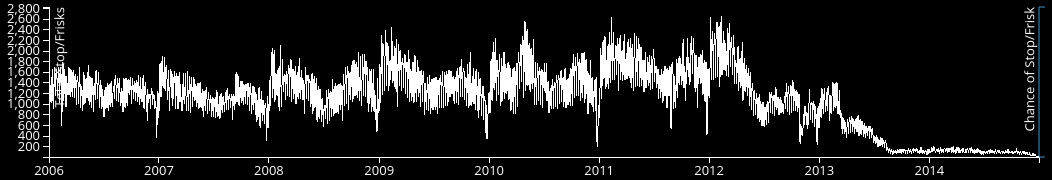
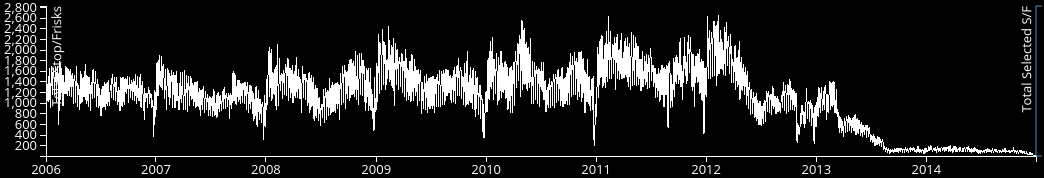
timeline pictures

diff --git a/writeup/index.html b/writeup/index.html
@@ -194,8 +194,12 @@
                 <p>
                    We used d3 to create a timeline with one static white line repesenting the total number of stop-and-frisks which happened each day over time.
                </p>
+               <img class="img-responsive center-block" src="img/timeline-15-white-male.png"/>
+               <h12 class="center-block text-center">Male, 15 Years Old, White</h12>
                <p>
-                The second blue line dynamically responds to the selected characteristics, showing how the chance of being stopped and frisked changes over time. This timeline lines up with the time slider, allowing the user to easily jump to points they might find interesting.
+                The second blue line dynamically responds to the selected characteristics, showing how the number of stop-and-frisks happening to an individual with the given characteristics changes over time. 
+                </p>
+                This timeline lines up with the time slider, allowing the user to easily jump to points they might find interesting.
                 </p>
             </div>
             </div>

diff --git a/web/app/templates/timeline-graph.html b/web/app/templates/timeline-graph.html
@@ -82,7 +82,7 @@
 		.attr("y", 6)
 		.attr("dy", ".71em")
 		.attr('class', 'tick_text')
-		.text("Chance of Stop/Frisk");
+		.text("Total Selected S/F");
 
 	//http://bl.ocks.org/mbostock/3884955
 	function analyze(data){
